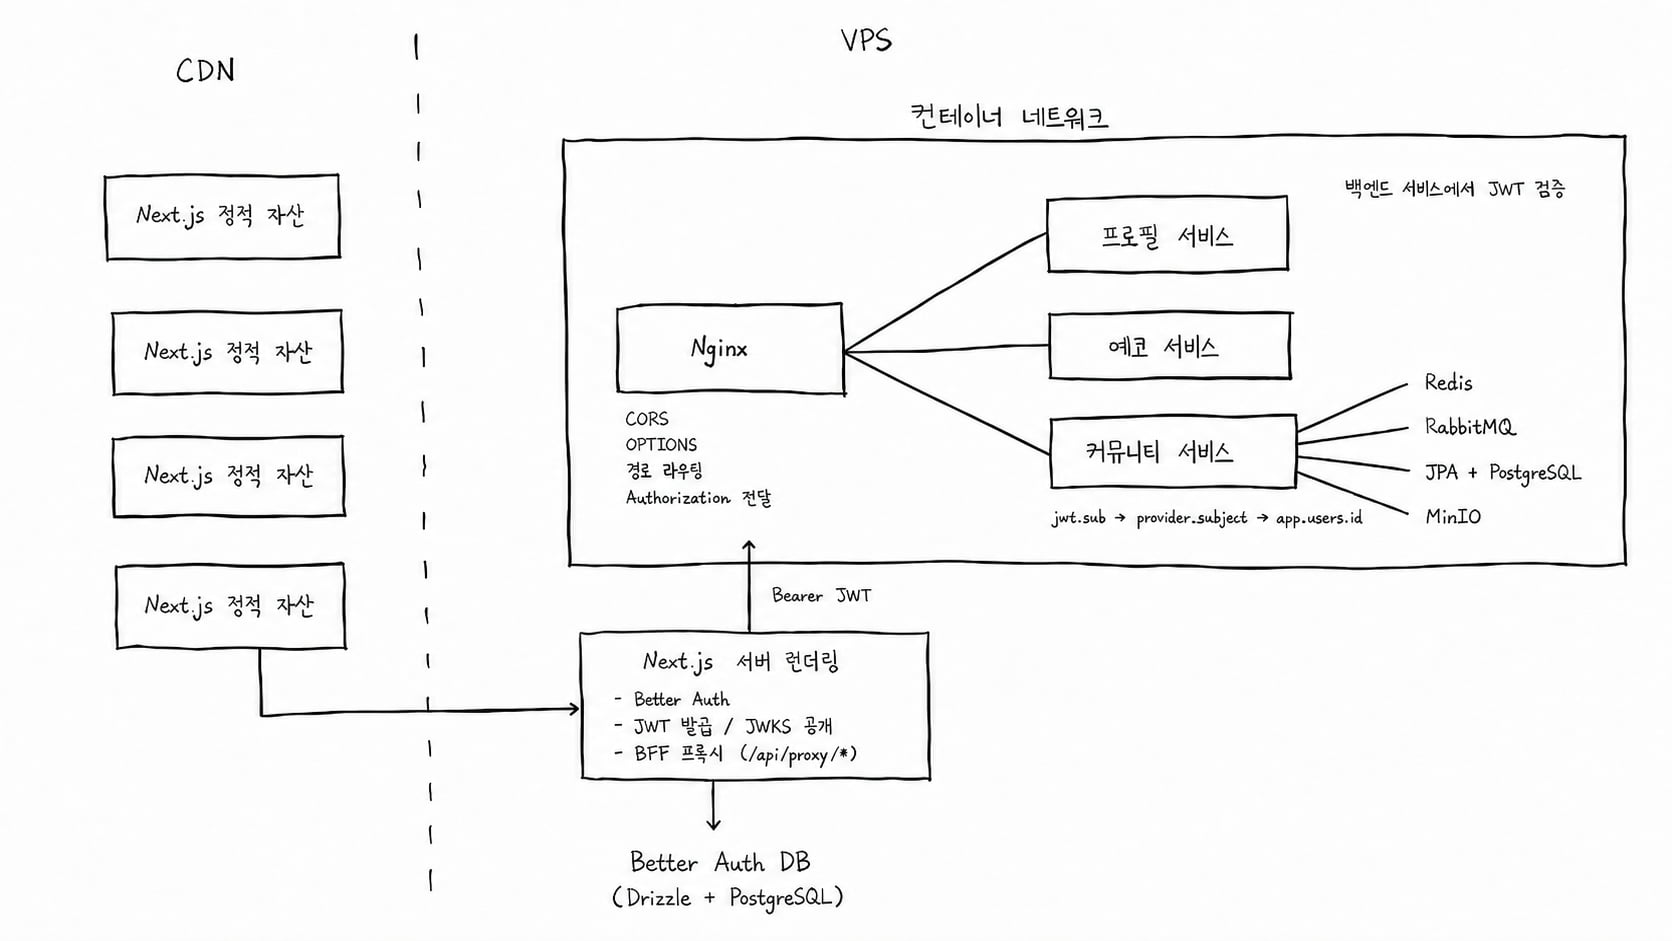
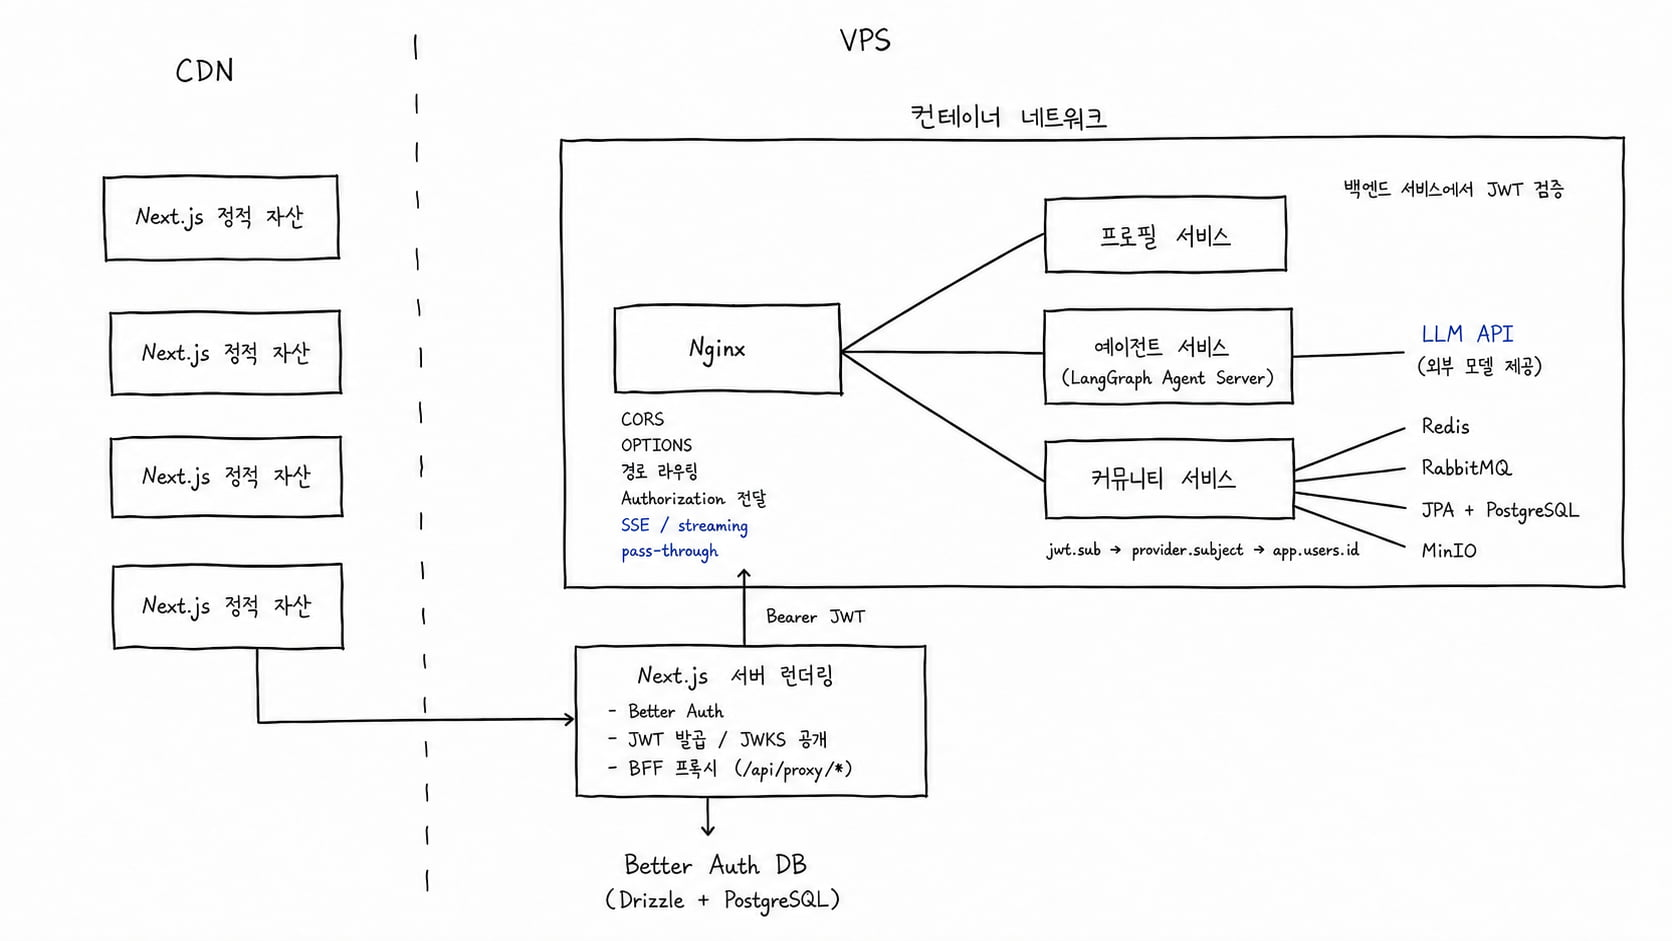
feat: 서버 500 에러 수정

diff --git a/backend/services/agent-service/src/agent/services/chat/graph.py b/backend/services/agent-service/src/agent/services/chat/graph.py
@@ -1,16 +1,11 @@
 from typing import Any
 
-from langgraph.checkpoint.memory import InMemorySaver
 from langgraph.graph import END, START, StateGraph
 
 from agent.services.chat.approvals.nodes import approval_gate, call_tools_with_approval
 from agent.services.chat.nodes import call_chat_model
 from agent.services.chat.routing import route_after_chat_model
 from agent.services.chat.state import ChatState
-
-
-# 개발용 인메모리 체크포인터입니다. 서버 재시작 시 대화 상태는 초기화됩니다.
-checkpointer = InMemorySaver()
 
 
 def _build_chat_graph() -> Any:
@@ -33,7 +28,8 @@ def _build_chat_graph() -> Any:
     )
     builder.add_edge("tools", "chat_model")
 
-    return builder.compile(checkpointer=checkpointer)
+    # 상태 관리(persistence)는 Agent Server의 thread/checkpoint에 위임하므로 checkpointer를 지정하지 않습니다.
+    return builder.compile()
 
 
 chat_graph = _build_chat_graph()